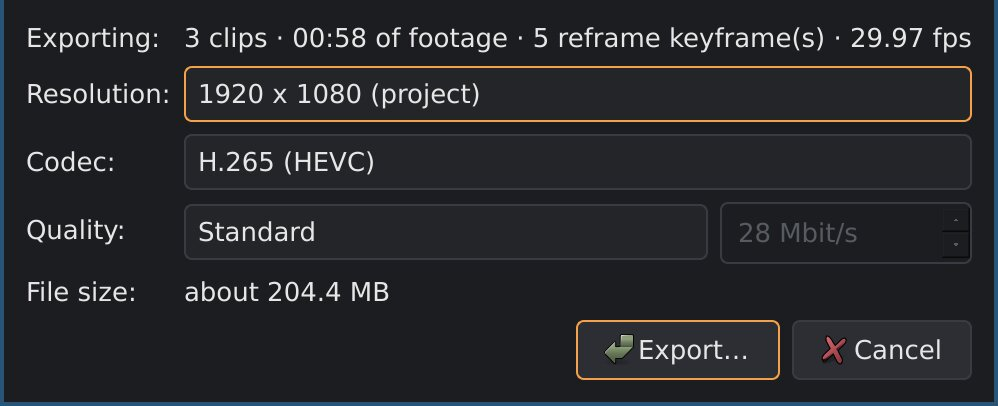
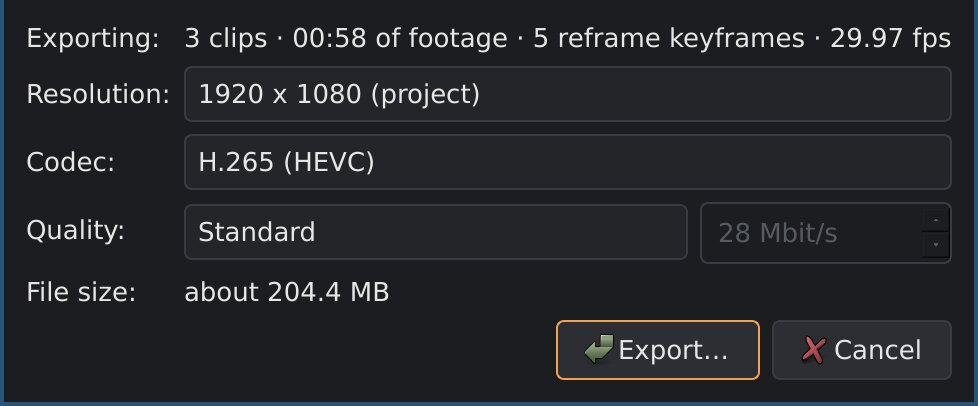
fix(ui): show "1 key" / "3 keys" instead of "key(s)" style plurals
Counts relied on a translation to pick the plural, and none is loaded, so
"(s)" showed literally: the overlay's keyframes, the export dialog's
reframe keyframes, files being added to the media pool and plates blurred
by hand. The form is now chosen in code. The manual's Overlay tab and
export dialog screenshots are retaken.

diff --git a/src/ui/MainWindow.cpp b/src/ui/MainWindow.cpp
@@ -3001,6 +3001,16 @@ void MainWindow::importMediaFolder()
     importMedia({dir});
 }
 
+namespace {
+
+QString addingFilesText(int pending)
+{
+    return pending == 1 ? MainWindow::tr("Adding 1 file…")
+                        : MainWindow::tr("Adding %1 files…").arg(pending);
+}
+
+} // namespace
+
 void MainWindow::importMedia(const QStringList &paths)
 {
     // Folders: the files in them. Files already in the pool are left as
@@ -3038,7 +3048,7 @@ void MainWindow::importMedia(const QStringList &paths)
     // dropped.
     m_sourcesSidebar->setOpen(true);
     m_mediaImportsPending += int(files.size());
-    m_mediaPanel->setStatus(tr("Adding %n file(s)…", nullptr, m_mediaImportsPending));
+    m_mediaPanel->setStatus(addingFilesText(m_mediaImportsPending));
     static QThreadPool *pool = [] {
         auto *p = new QThreadPool;
         p->setMaxThreadCount(2);
@@ -3064,7 +3074,7 @@ void MainWindow::importMedia(const QStringList &paths)
                     }
                     if (--self->m_mediaImportsPending > 0) {
                         self->m_mediaPanel->setStatus(
-                            tr("Adding %n file(s)…", nullptr, self->m_mediaImportsPending));
+                            addingFilesText(self->m_mediaImportsPending));
                         return;
                     }
                     self->m_mediaPanel->setStatus(QString());
@@ -3856,14 +3866,20 @@ QString MainWindow::privacyStaleness(const ClipItem &c, qint64 fromMs, qint64 to
     const QString then = on ? tr("off") : tr("on");
     QString what;
     if (scanStale && handStale)
-        what = tr("The plate scan and %n plate(s) blurred by hand were found with the stabilization "
-                  "%1",
-                  nullptr, handStale)
+        what = (handStale == 1
+                    ? tr("The plate scan and 1 plate blurred by hand were found with the "
+                         "stabilization %1")
+                    : tr("The plate scan and %1 plates blurred by hand were found with the "
+                         "stabilization %2")
+                          .arg(handStale))
                    .arg(then);
     else if (scanStale)
         what = tr("The plate scan was made with the stabilization %1").arg(then);
     else
-        what = tr("%n plate(s) blurred by hand were followed with the stabilization %1", nullptr, handStale)
+        what = (handStale == 1
+                    ? tr("1 plate blurred by hand was followed with the stabilization %1")
+                    : tr("%1 plates blurred by hand were followed with the stabilization %2")
+                          .arg(handStale))
                    .arg(then);
     QString text = tr("%1, which stitches the picture slightly differently: the blurs may sit a "
                       "little off the plates in fast swings. Check them with \"Show regions\", "
@@ -4126,7 +4142,10 @@ void MainWindow::syncPrivacyPanel()
     if (c->blurPlates && !covered)
         status += QLatin1Char(' ') + tr("Exports with the blur on are refused until it is.");
     if (!c->blurAdditions.empty())
-        status += QLatin1Char(' ') + tr("%n plate(s) blurred by hand.", nullptr, int(c->blurAdditions.size()));
+        status += QLatin1Char(' ') + (c->blurAdditions.size() == 1
+                                          ? tr("1 plate blurred by hand.")
+                                          : tr("%1 plates blurred by hand.")
+                                                .arg(c->blurAdditions.size()));
     if (!cantScan.isEmpty())
         status += QLatin1Char(' ') + cantScan;
     m_privacyPanel->setState(c->blurPlates, status, canScan, static_cast<int>(c->blurRemovals.size()));

diff --git a/src/ui/panels/OverlayPanel.cpp b/src/ui/panels/OverlayPanel.cpp
@@ -89,6 +89,7 @@ OverlayPanel::OverlayPanel(QWidget *parent)
     form()->addRow(tr("Opacity"), sliderRow(this, 0, 100, &m_opacity, &m_opacityValue));
 
     m_keys = new QLabel(this);
+    m_keys->setObjectName(QStringLiteral("overlayKeyCount"));
     form()->addRow(tr("Keyframes"), m_keys);
     auto *keyRow = new QWidget(this);
     auto *keyLayout = new QHBoxLayout(keyRow);
@@ -257,7 +258,7 @@ void OverlayPanel::setState(const State &s)
     m_start->setValue(s.startMs / 1000.0);
 
     // Short: a wrapped label here gets clipped by the form layout.
-    m_keys->setText(s.keyCount == 0 ? tr("None") : tr("%n key(s)", "", s.keyCount));
+    m_keys->setText(s.keyCount == 0 ? tr("None") : s.keyCount == 1 ? tr("1 key") : tr("%1 keys").arg(s.keyCount));
     m_keys->setToolTip(s.keyCount == 0
                            ? tr("The same position, size and opacity for the whole clip. \"Set "
                                 "key\" starts animating it.")

diff --git a/tests/main_window_test.cpp b/tests/main_window_test.cpp
@@ -34,6 +34,7 @@
 #include <QElapsedTimer>
 #include <QFile>
 #include <QFileDialog>
+#include <QLabel>
 #include <QLineEdit>
 #include <QMessageBox>
 #include <QPushButton>
@@ -575,6 +576,13 @@ void testOverlay(const Ctx &c)
     key(c, Qt::Key_K);
     const TrackClip *clip = c.timeline->trackClipById(clipId);
     CHECK(clip && clip->insetKeys.count() == 1);
+    auto *keyCount = find<QLabel>(c.w, "overlayKeyCount");
+    CHECK(keyCount && keyCount->text() == QStringLiteral("1 key"));
+    CHECK(seekTo(c, 1500)); // the overlay is 2 s long
+    key(c, Qt::Key_K);
+    clip = c.timeline->trackClipById(clipId);
+    CHECK(clip && clip->insetKeys.count() == 2);
+    CHECK(keyCount && keyCount->text() == QStringLiteral("2 keys"));
     key(c, Qt::Key_Escape);
 }
 

diff --git a/src/ui/ExportOptionsDialog.cpp b/src/ui/ExportOptionsDialog.cpp
@@ -45,8 +45,9 @@ ExportOptionsDialog::ExportOptionsDialog(int clipCount, qint64 rangeMs, int keyC
             .arg(clips)
             .arg(secs / 60, 2, 10, QLatin1Char('0'))
             .arg(secs % 60, 2, 10, QLatin1Char('0'))
-            .arg(keyCount > 0 ? tr("%n reframe keyframe(s)", nullptr, keyCount)
-                              : tr("no keyframes — static forward view"))
+            .arg(keyCount == 0   ? tr("no keyframes — static forward view")
+                 : keyCount == 1 ? tr("1 reframe keyframe")
+                                 : tr("%1 reframe keyframes").arg(keyCount))
             .arg(QString::number(fps, 'g', 5)),
         this);
     form->addRow(tr("Exporting:"), summary);

diff --git a/docs/manual/projects-and-export.md b/docs/manual/projects-and-export.md
@@ -162,7 +162,7 @@ recorded (see [The timeline](timeline.md)).
 **File ▸ Export flat video…** (`Ctrl+E`) turns the whole timeline into a
 normal, flat MP4 video that plays anywhere.
 
-<img src="images/export-dialog.jpg" width="500" alt="The Export Flat Video dialog">
+<img src="images/export-dialog.jpg" width="489" alt="The Export Flat Video dialog">
 
 1. Choose **File ▸ Export flat video…**.
 2. The dialog sums up what will be exported: how many clips, how long, how
